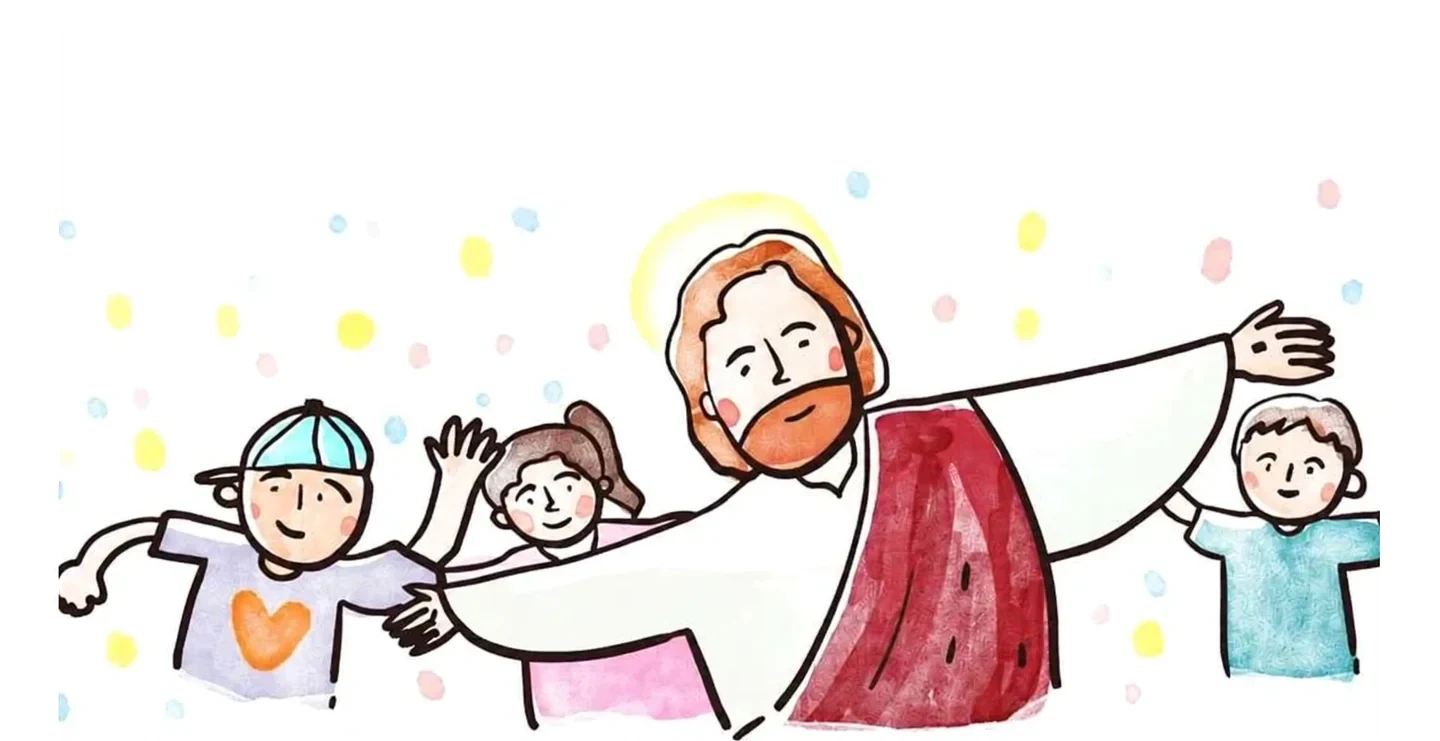
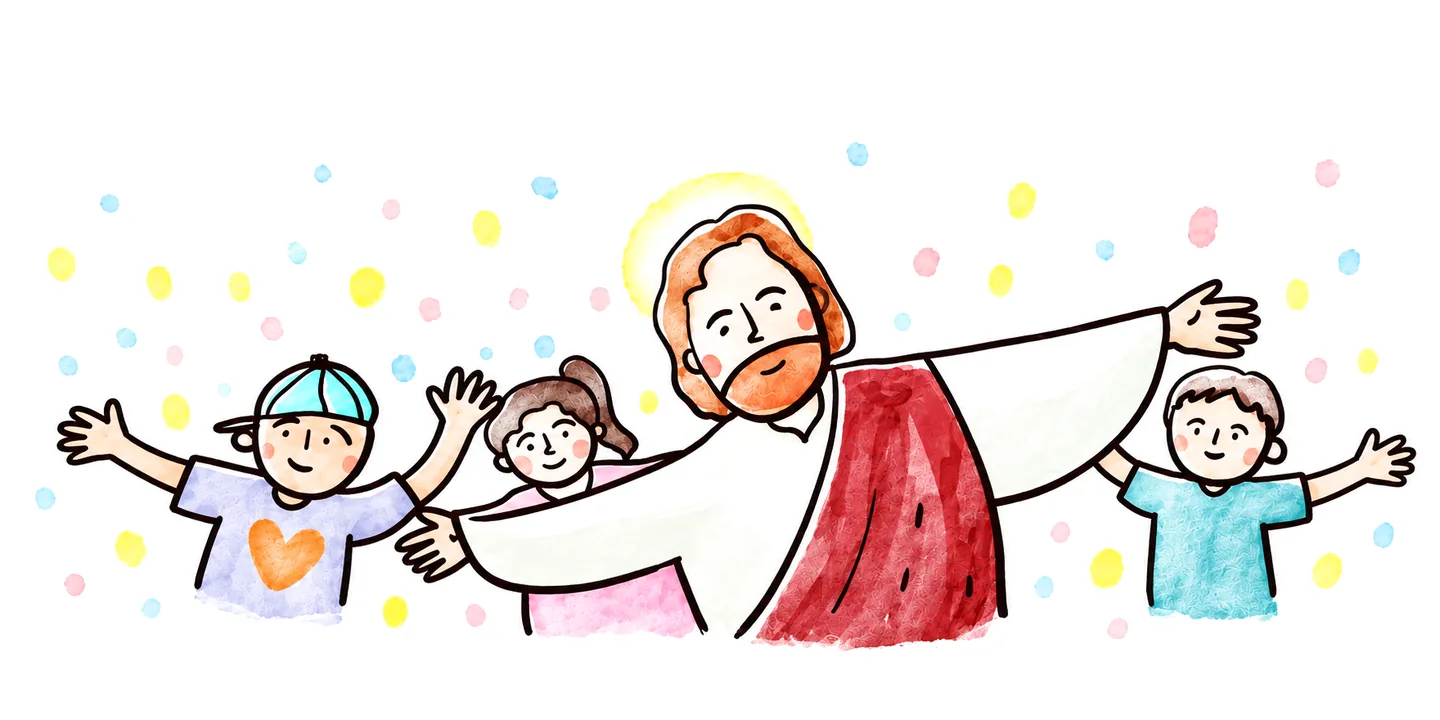
fix: 어린이 예배 히어로 그림을 손이 잘리지 않은 원본으로 교체 (#526)
- welcome.webp·welcome-sm.webp를 사용자가 제공한 원본 그림(비율 2:1)으로 교체, 기존과 같은 색감 보정 적용
- 이미지 비율 변경에 맞춰 width/height 속성 수정 (히어로 1440×720, 홈 카드 720×360)
- 위키 기록 갱신

Claude-Session: https://claude.ai/code/session_01VZbFsqcJ5fzYUPDYFFQhgg

diff --git a/app.js b/app.js
@@ -526,7 +526,7 @@ const IndexRenderer = {
         // 홈 카드는 요약(summary)만 — 전문은 worship.html에서
         el.innerHTML = CHURCH_DATA.worship.main.map(w => `
             <div class="card">
-                ${w.image ? `<a href="${w.href}" class="children-home-image" tabindex="-1" aria-hidden="true"><img src="${w.image}" alt="${w.imageAlt}" width="720" height="371" loading="lazy" decoding="async"></a>` : ''}
+                ${w.image ? `<a href="${w.href}" class="children-home-image" tabindex="-1" aria-hidden="true"><img src="${w.image}" alt="${w.imageAlt}" width="720" height="360" loading="lazy" decoding="async"></a>` : ''}
                 <h3>${w.title}</h3>
                 <p class="card-time">${w.time}</p>
                 <p class="card-desc">${w.summary || w.desc}</p>
@@ -645,7 +645,7 @@ const ChildrenRenderer = {
         if (!el) return;
         const d = CHURCH_DATA.childrenWorship;
         const service = CHURCH_DATA.worship.main.find(w => w.id === 'children');
-        const picture = (name, alt, eager = false) => `<img src="images/children/${name}.webp" srcset="images/children/${name}-sm.webp 720w, images/children/${name}.webp 1440w" sizes="(max-width: 768px) 100vw, 50vw" alt="${alt}" width="${name === 'welcome' ? 1440 : 1440}" height="${name === 'welcome' ? 741 : 1080}" ${eager ? 'fetchpriority="high"' : 'loading="lazy"'} decoding="async">`;
+        const picture = (name, alt, eager = false) => `<img src="images/children/${name}.webp" srcset="images/children/${name}-sm.webp 720w, images/children/${name}.webp 1440w" sizes="(max-width: 768px) 100vw, 50vw" alt="${alt}" width="${name === 'welcome' ? 1440 : 1440}" height="${name === 'welcome' ? 720 : 1080}" ${eager ? 'fetchpriority="high"' : 'loading="lazy"'} decoding="async">`;
         el.innerHTML = `
             <header class="children-hero">
                 <div class="container children-hero-inner">

diff --git a/docs/wiki/site.md b/docs/wiki/site.md
@@ -51,6 +51,6 @@
 - 사용자가 제공한 소개문, 활동 사진 4장, 예수님과 어린이 그림을 사용. 사진 날짜·참여 연령 등 미확인 사실은 추가하지 않음.
 - 시간과 영성체 안내는 `worship.main`의 어린이 예배 항목에서 파생. 장소는 교육관. 이미지 `images/children/`, 반응형 스타일 `.children-*`.
 - 2026-10-18 문구를 담백한 표현으로 다듬고(은유·수식 제거, 사실은 기존 내용 그대로), 그림·사진 5종의 색감을 보정함(푸른 기 완화, 대비·채도 소폭 조정, 파일명·크기 동일).
-- 2026-10-18 UX 점검: 히어로 버튼 「시간·장소 보기」, 하단 제목 「참여 안내」(「전체 예배 안내」와 구분), 히어로 그림 가장자리의 희미한 세로선 제거, 홈 어린이 예배 카드의 그림 링크는 탭 순서에서 제외(글 링크와 중복). 그림 속 인물이 좌우 가장자리에서 잘려 있음은 원본 그림 한계(미수정).
+- 2026-10-18 UX 점검: 히어로 버튼 「시간·장소 보기」, 하단 제목 「참여 안내」(「전체 예배 안내」와 구분), 히어로 그림 가장자리의 희미한 세로선 제거, 홈 어린이 예배 카드의 그림 링크는 탭 순서에서 제외(글 링크와 중복). 히어로 그림은 손이 잘리지 않은 원본(1440×720, 비율 2:1)으로 교체함.
 
 - 홈페이지 어린이 예배 카드에도 글씨를 제거한 최종 그림과 소개 페이지 링크를 연결. 사이트 검색의 어린이 예배 결과도 상세 페이지로 이동.

diff --git a/docs/wiki/ministries.md b/docs/wiki/ministries.md
@@ -31,4 +31,4 @@
 - 사용자가 제공한 소개문, 활동 사진 4장, 예수님과 어린이 그림을 사용. 사진 날짜·참여 연령 등 미확인 사실은 추가하지 않음.
 - 시간과 영성체 안내는 `worship.main`의 어린이 예배 항목에서 파생. 장소는 교육관. 이미지 `images/children/`, 반응형 스타일 `.children-*`.
 - 2026-10-18 문구를 담백한 표현으로 다듬고(은유·수식 제거, 사실은 기존 내용 그대로), 그림·사진 5종의 색감을 보정함(푸른 기 완화, 대비·채도 소폭 조정, 파일명·크기 동일).
-- 2026-10-18 UX 점검: 히어로 버튼 「시간·장소 보기」, 하단 제목 「참여 안내」(「전체 예배 안내」와 구분), 히어로 그림 가장자리의 희미한 세로선 제거, 홈 어린이 예배 카드의 그림 링크는 탭 순서에서 제외(글 링크와 중복). 그림 속 인물이 좌우 가장자리에서 잘려 있음은 원본 그림 한계(미수정).
+- 2026-10-18 UX 점검: 히어로 버튼 「시간·장소 보기」, 하단 제목 「참여 안내」(「전체 예배 안내」와 구분), 히어로 그림 가장자리의 희미한 세로선 제거, 홈 어린이 예배 카드의 그림 링크는 탭 순서에서 제외(글 링크와 중복). 히어로 그림은 손이 잘리지 않은 원본(1440×720, 비율 2:1)으로 교체함.
